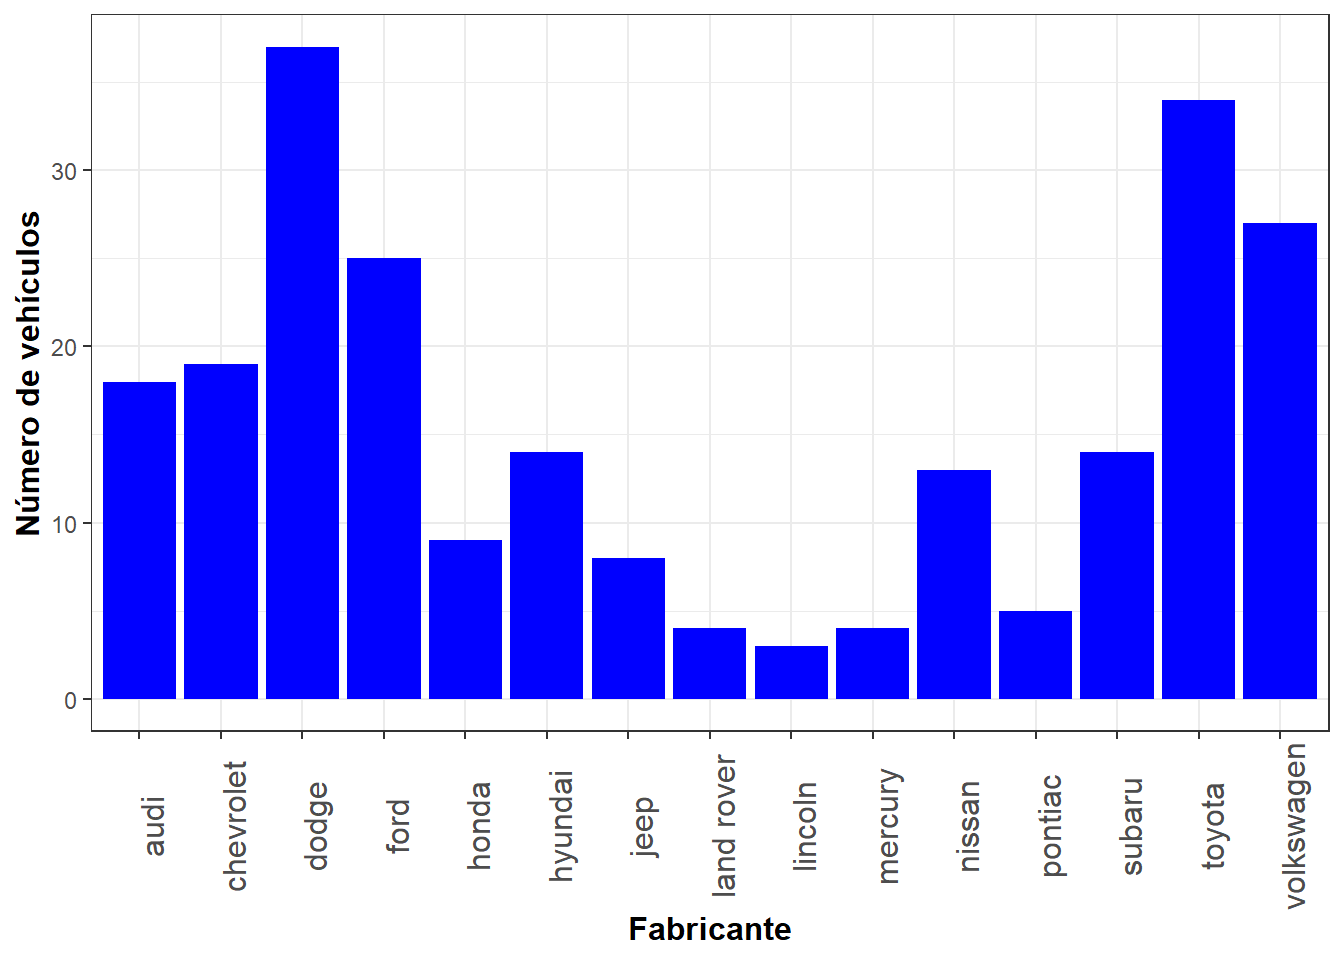
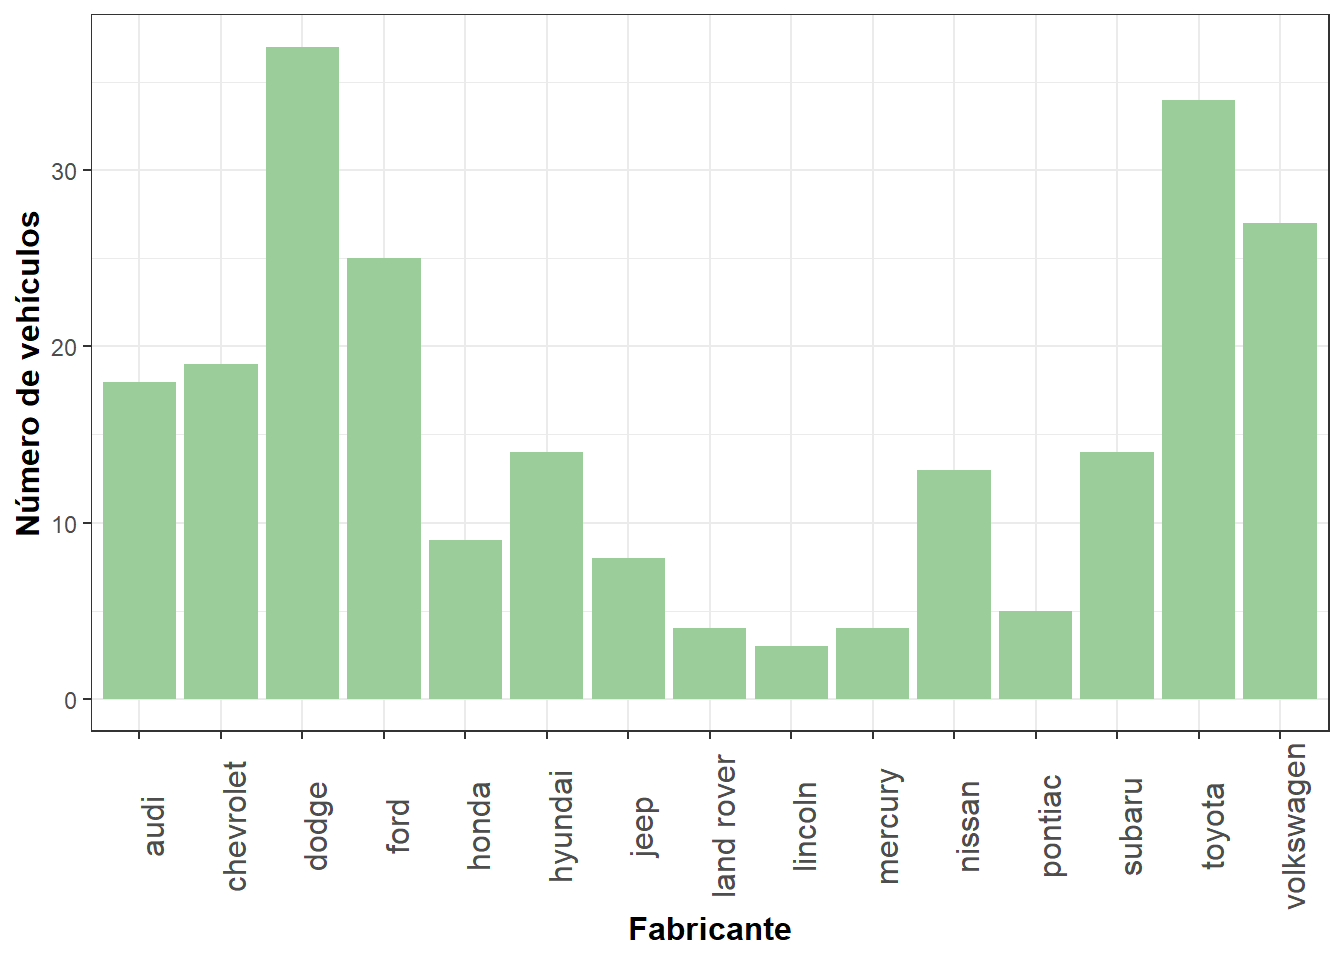
EXERCICI 4 I 5 + COLORS

Changed region(s): [[0.0625, 0.0312, 1.0, 0.75]]

diff --git a/Practica 2.html b/Practica 2.html
@@ -135,7 +135,7 @@ pre > code.sourceCode > span > a:first-child::before { text-decoration: underlin
 <div class="cell">
 <div class="sourceCode cell-code" id="cb3"><pre class="sourceCode r code-with-copy"><code class="sourceCode r"><span id="cb3-1"><a href="#cb3-1" aria-hidden="true" tabindex="-1"></a>datos <span class="sc">%&gt;%</span> </span>
 <span id="cb3-2"><a href="#cb3-2" aria-hidden="true" tabindex="-1"></a>  <span class="fu">ggplot</span>(<span class="fu">aes</span>(<span class="at">x=</span>manufacturer))<span class="sc">+</span></span>
-<span id="cb3-3"><a href="#cb3-3" aria-hidden="true" tabindex="-1"></a>  <span class="fu">geom_bar</span>(<span class="at">fill =</span> <span class="st">"blue"</span>)<span class="sc">+</span></span>
+<span id="cb3-3"><a href="#cb3-3" aria-hidden="true" tabindex="-1"></a>  <span class="fu">geom_bar</span>(<span class="at">fill =</span> <span class="st">"darkseagreen3"</span>)<span class="sc">+</span></span>
 <span id="cb3-4"><a href="#cb3-4" aria-hidden="true" tabindex="-1"></a>  <span class="fu">labs</span>(<span class="at">x=</span><span class="st">"Fabricante"</span>, <span class="at">y =</span> <span class="st">"Número de vehículos"</span>)<span class="sc">+</span></span>
 <span id="cb3-5"><a href="#cb3-5" aria-hidden="true" tabindex="-1"></a>  <span class="fu">theme_bw</span>()<span class="sc">+</span></span>
 <span id="cb3-6"><a href="#cb3-6" aria-hidden="true" tabindex="-1"></a>  <span class="fu">theme</span>(<span class="at">axis.text.x =</span> <span class="fu">element_text</span>(<span class="at">angle=</span><span class="dv">90</span>,<span class="at">size=</span><span class="dv">12</span>),</span>
@@ -188,50 +188,47 @@ pre > code.sourceCode > span > a:first-child::before { text-decoration: underlin
 </section>
 <section id="problema-4" class="level1">
 <h1>Problema 4</h1>
-<p><strong>Utilizad un gráfico para mostrar la relación entre el tamaño del motor y el rendimiento en carretera, para cada clase de vehículo. ¿Qué podéis observar?</strong> fmjhfmj</p>
+<p><strong>Utilizad un gráfico para mostrar la relación entre el tamaño del motor y el rendimiento en carretera, para cada clase de vehículo. ¿Qué podéis observar?</strong></p>
+<div class="cell">
+<div class="sourceCode cell-code" id="cb6"><pre class="sourceCode r code-with-copy"><code class="sourceCode r"><span id="cb6-1"><a href="#cb6-1" aria-hidden="true" tabindex="-1"></a><span class="fu">ggplot</span>(datos) <span class="sc">+</span></span>
+<span id="cb6-2"><a href="#cb6-2" aria-hidden="true" tabindex="-1"></a>  <span class="fu">geom_point</span>(<span class="at">mapping =</span> <span class="fu">aes</span>(<span class="at">x =</span> cyl,</span>
+<span id="cb6-3"><a href="#cb6-3" aria-hidden="true" tabindex="-1"></a>                           <span class="at">y =</span> hwy,</span>
+<span id="cb6-4"><a href="#cb6-4" aria-hidden="true" tabindex="-1"></a>                           <span class="at">color =</span> class), <span class="at">size=</span><span class="dv">2</span>)<span class="sc">+</span></span>
+<span id="cb6-5"><a href="#cb6-5" aria-hidden="true" tabindex="-1"></a>  <span class="fu">theme_bw</span>() <span class="sc">+</span></span>
+<span id="cb6-6"><a href="#cb6-6" aria-hidden="true" tabindex="-1"></a>  <span class="fu">theme</span>(<span class="at">axis.text =</span> <span class="fu">element_text</span>(<span class="at">size=</span><span class="dv">10</span>),</span>
+<span id="cb6-7"><a href="#cb6-7" aria-hidden="true" tabindex="-1"></a>        <span class="at">axis.title =</span> <span class="fu">element_text</span>(<span class="at">size=</span><span class="dv">10</span>, <span class="at">face =</span> <span class="st">"bold"</span>),</span>
+<span id="cb6-8"><a href="#cb6-8" aria-hidden="true" tabindex="-1"></a>        <span class="at">legend.title =</span> <span class="fu">element_text</span>(<span class="at">size=</span><span class="dv">10</span>)) <span class="sc">+</span> </span>
+<span id="cb6-9"><a href="#cb6-9" aria-hidden="true" tabindex="-1"></a>  <span class="fu">labs</span>(<span class="at">x=</span><span class="st">"Cilindrada del motor"</span>, <span class="at">y=</span><span class="st">"Rendimiento en carretera"</span>)<span class="sc">+</span></span>
+<span id="cb6-10"><a href="#cb6-10" aria-hidden="true" tabindex="-1"></a>  <span class="fu">guides</span>(<span class="at">fill =</span> <span class="fu">guide_legend</span>(<span class="at">title =</span> <span class="st">"Clase de vehículo"</span>))</span></code><button title="Copy to Clipboard" class="code-copy-button"><i class="bi"></i></button></pre></div>
+<div class="cell-output-display">
+<p><img src="Practica-2_files/figure-html/unnamed-chunk-5-1.png" class="img-fluid" width="672"></p>
+</div>
+</div>
+<p>Observamos que, al ser la variable <code>cyl</code> del tipo <em>int</em>, hay muchas observaciones con el mismo valor.</p>
 </section>
 <section id="problema-5" class="level1">
 <h1>Problema 5</h1>
 <p><strong>Comparad la distribución del rendimiento en ciudad para distintos tipos de tracción.</strong></p>
 <div class="cell">
-<div class="sourceCode cell-code" id="cb6"><pre class="sourceCode r code-with-copy"><code class="sourceCode r"><span id="cb6-1"><a href="#cb6-1" aria-hidden="true" tabindex="-1"></a><span class="fu">ggplot</span>(<span class="at">data =</span> datos, <span class="fu">aes</span>(<span class="at">x =</span> drv, <span class="at">y =</span> cty)) <span class="sc">+</span></span>
-<span id="cb6-2"><a href="#cb6-2" aria-hidden="true" tabindex="-1"></a>  <span class="fu">geom_boxplot</span>(<span class="fu">aes</span>(<span class="at">color =</span> drv), <span class="at">width =</span> <span class="fl">0.3</span>, </span>
-<span id="cb6-3"><a href="#cb6-3" aria-hidden="true" tabindex="-1"></a>               <span class="at">show.legend =</span> <span class="cn">FALSE</span>)<span class="sc">+</span> </span>
-<span id="cb6-4"><a href="#cb6-4" aria-hidden="true" tabindex="-1"></a>  <span class="fu">geom_jitter</span>(<span class="fu">aes</span>(<span class="at">color =</span> drv), <span class="at">alpha =</span> <span class="fl">0.5</span>, </span>
-<span id="cb6-5"><a href="#cb6-5" aria-hidden="true" tabindex="-1"></a>              <span class="at">show.legend =</span> <span class="cn">FALSE</span>, </span>
-<span id="cb6-6"><a href="#cb6-6" aria-hidden="true" tabindex="-1"></a>              <span class="at">position =</span> <span class="fu">position_jitter</span>(<span class="at">width =</span> <span class="fl">0.2</span>, <span class="at">seed =</span> <span class="dv">0</span>))<span class="sc">+</span></span>
-<span id="cb6-7"><a href="#cb6-7" aria-hidden="true" tabindex="-1"></a>  <span class="fu">theme_bw</span>()<span class="sc">+</span></span>
-<span id="cb6-8"><a href="#cb6-8" aria-hidden="true" tabindex="-1"></a>  <span class="fu">scale_color_manual</span>(<span class="at">values =</span> <span class="fu">c</span>(<span class="st">"hotpink"</span>,<span class="st">"goldenrod1"</span>,<span class="st">"lightgreen"</span>)) <span class="sc">+</span></span>
-<span id="cb6-9"><a href="#cb6-9" aria-hidden="true" tabindex="-1"></a>  <span class="fu">labs</span>(<span class="at">x =</span> <span class="st">"Tipo de tracción"</span>, <span class="at">y =</span> <span class="st">"Rendimiento en ciudad"</span>)<span class="sc">+</span></span>
-<span id="cb6-10"><a href="#cb6-10" aria-hidden="true" tabindex="-1"></a>  <span class="fu">theme</span>(<span class="at">axis.text.x =</span> <span class="fu">element_text</span>(<span class="at">size=</span><span class="dv">12</span>),</span>
-<span id="cb6-11"><a href="#cb6-11" aria-hidden="true" tabindex="-1"></a>        <span class="at">axis.title =</span> <span class="fu">element_text</span>(<span class="at">size=</span><span class="dv">12</span>, <span class="at">face =</span> <span class="st">"bold"</span>))<span class="sc">+</span></span>
-<span id="cb6-12"><a href="#cb6-12" aria-hidden="true" tabindex="-1"></a>  <span class="fu">geom_point</span>(<span class="at">stat =</span> <span class="st">"summary"</span>, <span class="at">fun =</span> <span class="st">"mean"</span>, <span class="at">shape =</span> <span class="dv">16</span>, <span class="at">size =</span> <span class="fl">1.5</span>, <span class="at">color =</span> <span class="st">"black"</span>)</span></code><button title="Copy to Clipboard" class="code-copy-button"><i class="bi"></i></button></pre></div>
-<div class="cell-output-display">
-<p><img src="Practica-2_files/figure-html/unnamed-chunk-5-1.png" class="img-fluid" width="672"></p>
-</div>
-</div>
-<div class="cell">
 <div class="sourceCode cell-code" id="cb7"><pre class="sourceCode r code-with-copy"><code class="sourceCode r"><span id="cb7-1"><a href="#cb7-1" aria-hidden="true" tabindex="-1"></a>datos <span class="sc">%&gt;%</span> </span>
 <span id="cb7-2"><a href="#cb7-2" aria-hidden="true" tabindex="-1"></a>  <span class="fu">ggplot</span>(<span class="fu">aes</span>(<span class="at">x =</span> cty)) <span class="sc">+</span></span>
-<span id="cb7-3"><a href="#cb7-3" aria-hidden="true" tabindex="-1"></a>  <span class="fu">geom_histogram</span>(<span class="fu">aes</span>(<span class="at">fill =</span> drv), </span>
+<span id="cb7-3"><a href="#cb7-3" aria-hidden="true" tabindex="-1"></a>  <span class="fu">geom_density</span>(<span class="fu">aes</span>(<span class="at">fill =</span> drv), </span>
 <span id="cb7-4"><a href="#cb7-4" aria-hidden="true" tabindex="-1"></a>                 <span class="at">alpha =</span> <span class="fl">0.5</span>, </span>
 <span id="cb7-5"><a href="#cb7-5" aria-hidden="true" tabindex="-1"></a>                 <span class="at">position =</span> <span class="st">"identity"</span>,</span>
-<span id="cb7-6"><a href="#cb7-6" aria-hidden="true" tabindex="-1"></a>                 <span class="at">na.rm =</span> <span class="cn">TRUE</span>) <span class="sc">+</span></span>
-<span id="cb7-7"><a href="#cb7-7" aria-hidden="true" tabindex="-1"></a>  <span class="fu">facet_grid</span>(.<span class="sc">~</span>drv) <span class="sc">+</span></span>
-<span id="cb7-8"><a href="#cb7-8" aria-hidden="true" tabindex="-1"></a>  <span class="fu">scale_fill_manual</span>(<span class="at">values =</span> <span class="fu">c</span>(<span class="st">"darkorange"</span>,<span class="st">"purple"</span>,<span class="st">"cyan4"</span>)) <span class="sc">+</span></span>
+<span id="cb7-6"><a href="#cb7-6" aria-hidden="true" tabindex="-1"></a>                 <span class="at">na.rm =</span> <span class="cn">TRUE</span>,</span>
+<span id="cb7-7"><a href="#cb7-7" aria-hidden="true" tabindex="-1"></a>               <span class="at">color =</span> <span class="cn">NA</span>) <span class="sc">+</span></span>
+<span id="cb7-8"><a href="#cb7-8" aria-hidden="true" tabindex="-1"></a>  <span class="fu">scale_fill_manual</span>(<span class="at">values =</span> <span class="fu">c</span>(<span class="st">"#089392"</span>,<span class="st">"#CF597E"</span>,<span class="st">"#EAE29C"</span>)) <span class="sc">+</span></span>
 <span id="cb7-9"><a href="#cb7-9" aria-hidden="true" tabindex="-1"></a>  <span class="fu">labs</span>(<span class="at">x =</span> <span class="st">"Rendimiento en ciudad"</span>,</span>
-<span id="cb7-10"><a href="#cb7-10" aria-hidden="true" tabindex="-1"></a>       <span class="at">y =</span> <span class="st">"Frecuencia absoluta"</span>) <span class="sc">+</span></span>
+<span id="cb7-10"><a href="#cb7-10" aria-hidden="true" tabindex="-1"></a>       <span class="at">y =</span> <span class="st">"Densidad"</span>) <span class="sc">+</span></span>
 <span id="cb7-11"><a href="#cb7-11" aria-hidden="true" tabindex="-1"></a>  <span class="fu">guides</span>(<span class="at">fill =</span> <span class="fu">guide_legend</span>(<span class="at">title =</span> <span class="st">"Tipo de tracción"</span>)) <span class="sc">+</span></span>
 <span id="cb7-12"><a href="#cb7-12" aria-hidden="true" tabindex="-1"></a>  <span class="fu">theme_bw</span>() <span class="sc">+</span></span>
 <span id="cb7-13"><a href="#cb7-13" aria-hidden="true" tabindex="-1"></a>  <span class="fu">theme</span>(<span class="at">axis.text =</span> <span class="fu">element_text</span>(<span class="at">size=</span><span class="dv">10</span>),</span>
 <span id="cb7-14"><a href="#cb7-14" aria-hidden="true" tabindex="-1"></a>        <span class="at">axis.title =</span> <span class="fu">element_text</span>(<span class="at">size=</span><span class="dv">10</span>, <span class="at">face =</span> <span class="st">"bold"</span>),</span>
 <span id="cb7-15"><a href="#cb7-15" aria-hidden="true" tabindex="-1"></a>        <span class="at">legend.title =</span> <span class="fu">element_text</span>(<span class="at">size=</span><span class="dv">10</span>))</span></code><button title="Copy to Clipboard" class="code-copy-button"><i class="bi"></i></button></pre></div>
-<div class="cell-output cell-output-stderr">
-<pre><code>`stat_bin()` using `bins = 30`. Pick better value with `binwidth`.</code></pre>
-</div>
 <div class="cell-output-display">
 <p><img src="Practica-2_files/figure-html/unnamed-chunk-6-1.png" class="img-fluid" width="672"></p>
 </div>
+<div class="sourceCode cell-code" id="cb8"><pre class="sourceCode r code-with-copy"><code class="sourceCode r"><span id="cb8-1"><a href="#cb8-1" aria-hidden="true" tabindex="-1"></a><span class="co"># facet_grid(.~drv) +</span></span></code><button title="Copy to Clipboard" class="code-copy-button"><i class="bi"></i></button></pre></div>
 </div>
 </section>
 
